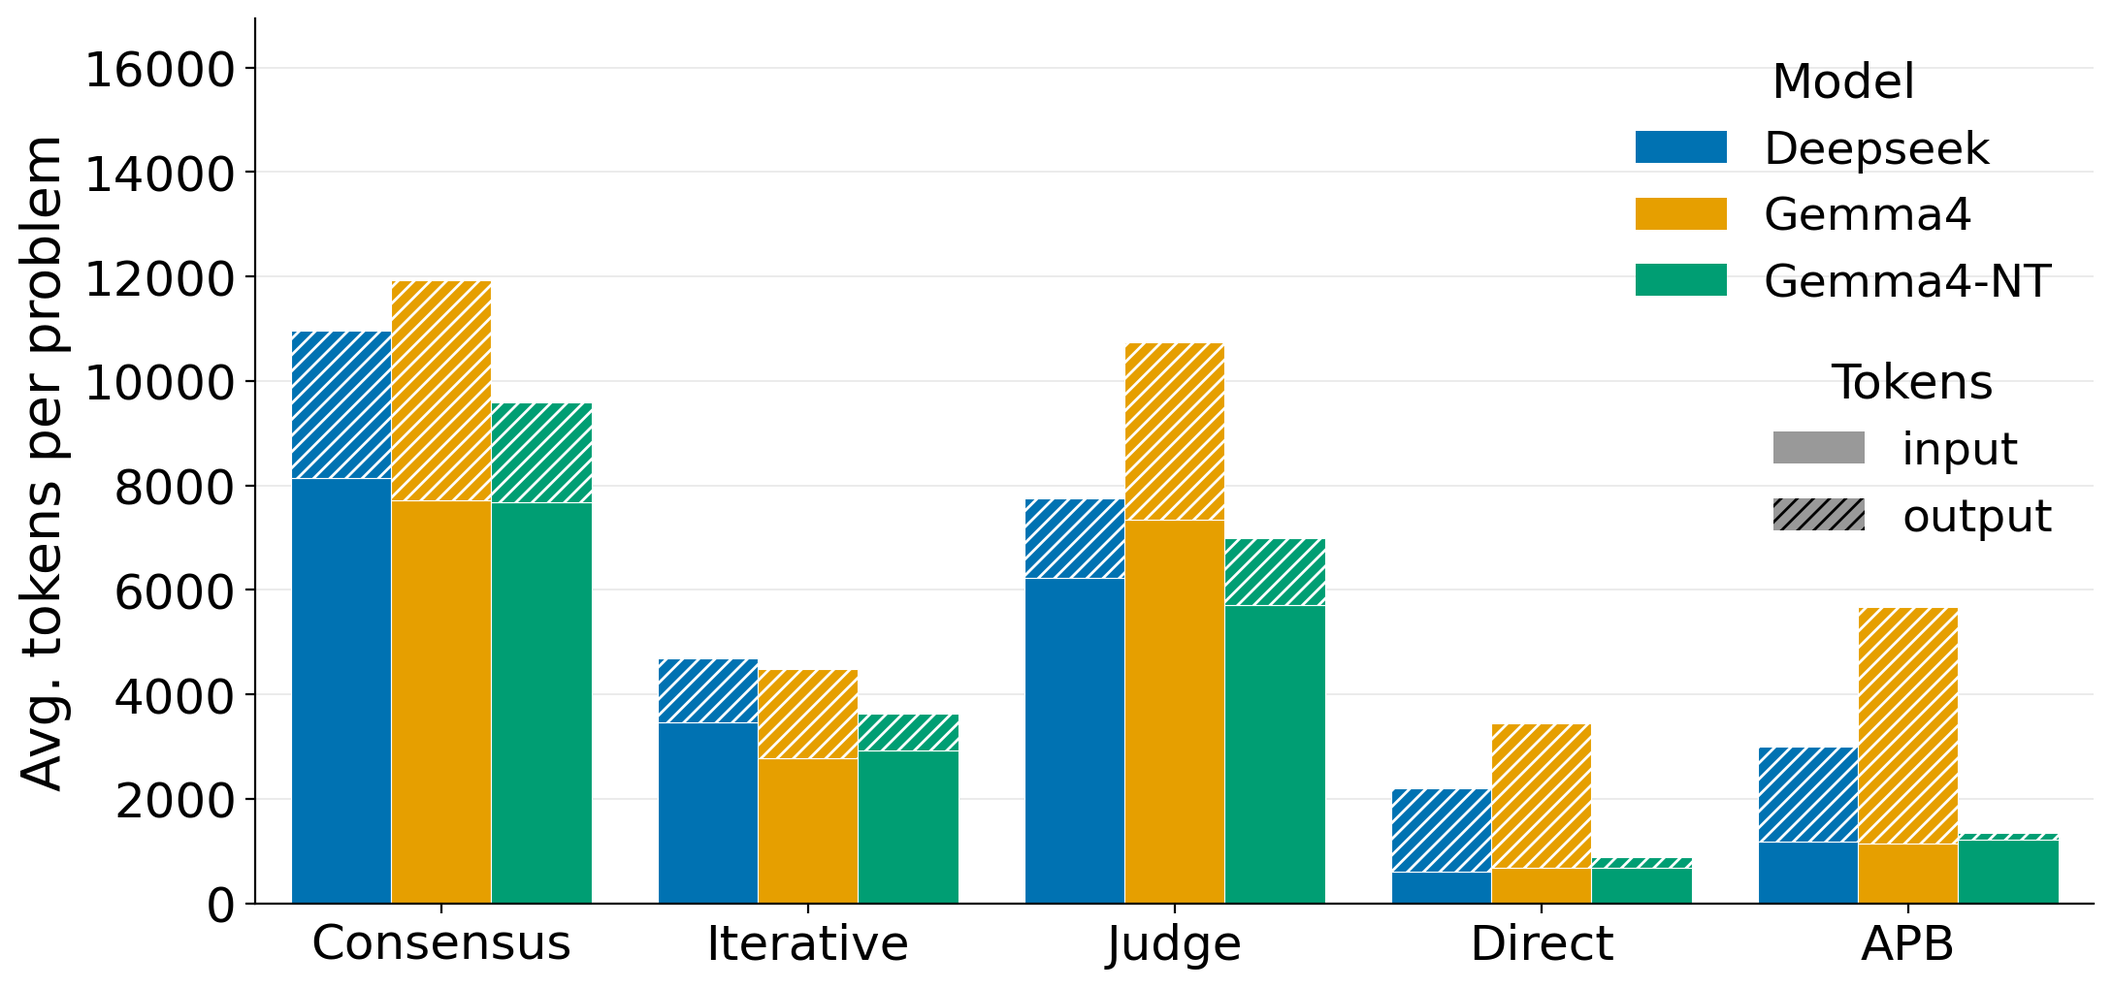
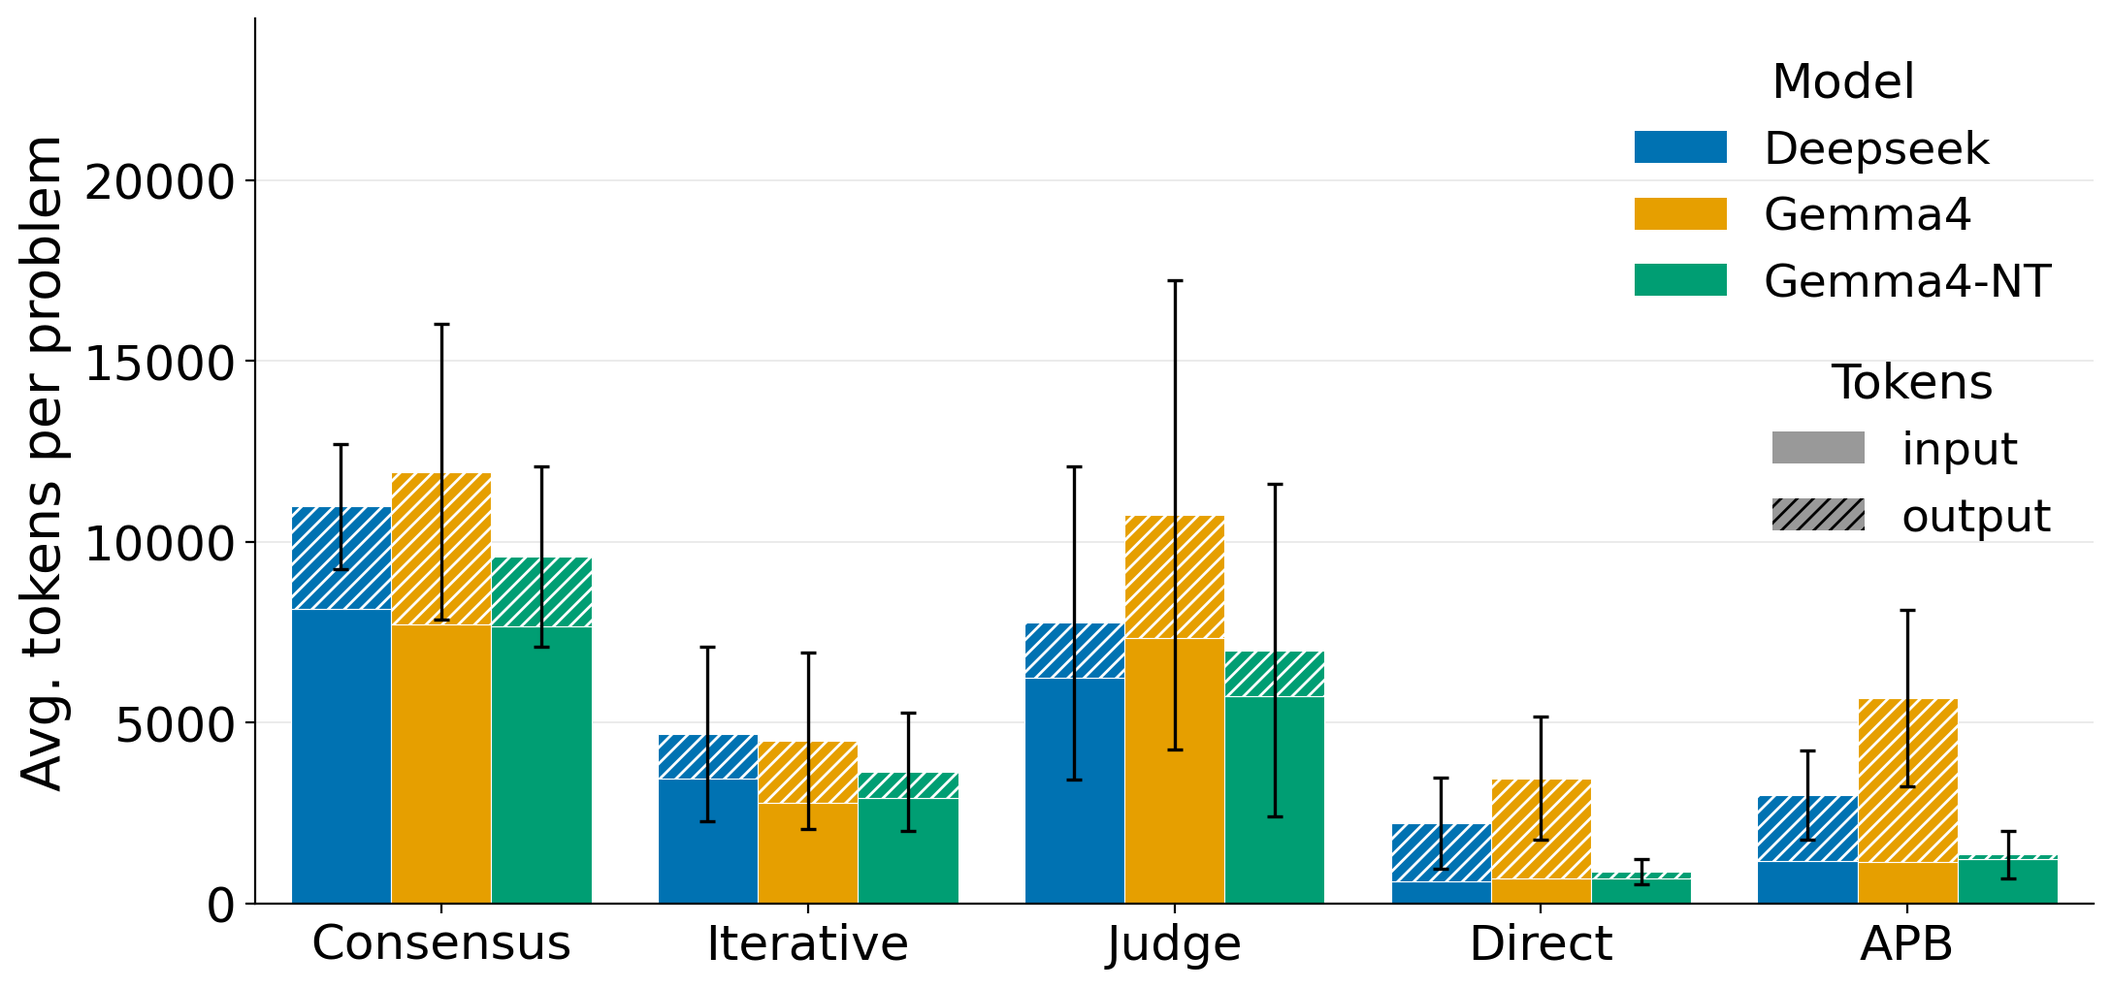
mostly changes in figures, also added appendix info

diff --git a/sections/appendix.tex b/sections/appendix.tex
@@ -1,4 +1,8 @@
-\section{Consensus Sample-Count Ablation}
+\clearpage
+\onecolumn
+\section{Appendices}
+
+\subsection{Consensus Sample-Count Ablation}
 \label{app:consensus}
 
 The main results report consensus at $n{=}3$. Here we ablate the number of samples
@@ -6,8 +10,15 @@ $n\in\{1,3,5\}$, where $n{=}1$ issues a single query with no voting or relaxatio
 therefore isolates the model's single-shot accuracy. Table~\ref{tab:consensus_recovery}
 reports recovery and Table~\ref{tab:consensus_refusal} refusal.
 
+\paragraph{Recovery.} Recovery generally improves with $n$ but with diminishing returns:
+on \textsc{single} and \textsc{stress} the Gemma4 variants are already saturated at
+$n{=}1$, and the largest gains appear on \textsc{bulk} and for \textsc{Deepseek}, whose
+single-shot accuracy is lower. Because token cost scales roughly linearly with $n$
+(about $3.7$k, $11$k, and $18$k tokens per problem at $n{=}1,3,5$), $n{=}3$ is a
+reasonable default and $n{=}5$ rarely justifies its cost.
+
 % ========== CONSENSUS RECOVERY ABLATION ==========
-\begin{table*}[t]
+\begin{table}[ht]
 \centering
 \caption{Consensus recovery (\%) by sample count $n\in\{1,3,5\}$ (rows grouped by model). Recovery generally improves with $n$ but with diminishing returns, while token cost scales roughly linearly with $n$.}
 \label{tab:consensus_recovery}
@@ -33,32 +44,6 @@ G4NT-n3     & \textbf{100.0} $\pm$ 0.0 & 58.0 $\pm$ 50.3 & \textbf{100.0} $\pm$ 
 G4NT-n5     & \textbf{100.0} $\pm$ 0.0 & \textbf{64.0} $\pm$ 47.9 & \textbf{100.0} $\pm$ 0.0 & \textbf{100.0} $\pm$ 0.0 & \textbf{100.0} $\pm$ 0.0 & \textbf{100.0} $\pm$ 0.0 & \textbf{100.0} $\pm$ 0.0 & \textbf{100.0} $\pm$ 0.0 & \textbf{100.0} $\pm$ 0.0 \\
 \bottomrule
 \end{tabular}}
-\end{table*}
-
-\paragraph{Recovery.} Recovery generally improves with $n$ but with diminishing returns:
-on \textsc{single} and \textsc{stress} the Gemma4 variants are already saturated at
-$n{=}1$, and the largest gains appear on \textsc{bulk} and for \textsc{Deepseek}, whose
-single-shot accuracy is lower. Because token cost scales roughly linearly with $n$
-(about $3.7$k, $11$k, and $18$k tokens per problem at $n{=}1,3,5$), $n{=}3$ is a
-reasonable default and $n{=}5$ rarely justifies its cost.
-
-% ========== CONSENSUS REFUSAL ABLATION ==========
-\begin{table}[t]
-\centering
-\caption{Consensus refusal accuracy on \textsc{no\_sub} problems by sample count. Refusal \emph{degrades} as $n$ grows: vote-rank relaxation searches harder for a solvable assignment and, on an unsolvable problem, is more likely to accept a distractor. \textsc{Deepseek} collapses at $n{=}5$.}
-\label{tab:consensus_refusal}
-\footnotesize
-\renewcommand{\arraystretch}{0.9}
-\resizebox{\columnwidth}{!}{%
-\begin{tabular}{l|ccc|c}
-\toprule
-\textbf{Method} & \textbf{DS} & \textbf{G4} & \textbf{G4NT} & \textbf{Avg} \\
-\midrule
-Cons n=1   & \textbf{64.0} $\pm$ 36.3 & \textbf{66.0} $\pm$ 47.2 & \textbf{52.0} $\pm$ 48.3 & \textbf{60.7} $\pm$ 7.6 \\
-Cons n=3   & 60.0 $\pm$ 32.7 & 56.0 $\pm$ 46.0 & 50.0 $\pm$ 46.4 & 55.3 $\pm$ 5.0 \\
-Cons n=5   & 16.0 $\pm$ 18.4 & 62.0 $\pm$ 44.7 & 48.0 $\pm$ 48.3 & 42.0 $\pm$ 23.6 \\
-\bottomrule
-\end{tabular}}
 \end{table}
 
 \paragraph{Refusal.} Refusal moves in the opposite direction --- it \emph{degrades} as
@@ -72,3 +57,136 @@ from $64\%$ and $60\%$ at $n{=}1$ and $n{=}3$; of its $42$ false positives, $28$
 produced by relaxation retyping a distractor such as \texttt{ripe-banana} to
 \texttt{hammer}. The mechanism that aids recovery thus directly undermines refusal, which
 is why the main results adopt the more conservative $n{=}3$.
+
+% ========== CONSENSUS REFUSAL ABLATION ==========
+\begin{table}[ht]
+\centering
+\caption{Consensus refusal accuracy on \textsc{no\_sub} problems by sample count. Refusal \emph{degrades} as $n$ grows: vote-rank relaxation searches harder for a solvable assignment and, on an unsolvable problem, is more likely to accept a distractor. \textsc{Deepseek} collapses at $n{=}5$.}
+\label{tab:consensus_refusal}
+\footnotesize
+\renewcommand{\arraystretch}{0.9}
+\begin{tabular}{l|ccc|c}
+\toprule
+\textbf{Method} & \textbf{DS} & \textbf{G4} & \textbf{G4NT} & \textbf{Avg} \\
+\midrule
+Cons n=1   & \textbf{64.0} $\pm$ 36.3 & \textbf{66.0} $\pm$ 47.2 & \textbf{52.0} $\pm$ 48.3 & \textbf{60.7} $\pm$ 7.6 \\
+Cons n=3   & 60.0 $\pm$ 32.7 & 56.0 $\pm$ 46.0 & 50.0 $\pm$ 46.4 & 55.3 $\pm$ 5.0 \\
+Cons n=5   & 16.0 $\pm$ 18.4 & 62.0 $\pm$ 44.7 & 48.0 $\pm$ 48.3 & 42.0 $\pm$ 23.6 \\
+\bottomrule
+\end{tabular}
+\end{table}
+
+% Generated by examples/export_prompts_tex.py
+\renewcommand{\lstlistingname}{Prompt}
+\subsection{Prompts Used for Experimentation}
+\label{app:prompts}
+All domains use the constrained typing pipeline: the domain actions already enforce specific subtypes, so the LLM only reclassifies problem objects into those existing subtypes. Every mode shares the same system prompt and two-step typing pipeline (Prompt~\ref{lst:typing-prompt}); the judge mode additionally issues the evaluation prompt (Prompt~\ref{lst:judge-prompt}) after each typing query. The consensus modes issue the typing prompt $n$ independent times and aggregate by majority vote. In the iterative and judge modes the \texttt{\{\{JUDGE\_FEEDBACK\}\}} placeholder is populated with planner or judge feedback and the typing prompt is re-issued; it is empty on the first pass. \texttt{\{\{PLANNING\_PROBLEM\}\}} and \texttt{\{\{TYPE\_CLASSIFICATION\}\}} are substituted with the natural-language task encoding and the proposed classification, respectively.
+
+\begin{lstlisting}[caption={Typing Prompt (two-step reasoning pipeline)}, label={lst:typing-prompt}, breaklines=true, numbers=none, basicstyle=\footnotesize\ttfamily, columns=flexible, frame=single, framesep=4pt, literate={"}{{\char34}}{1}]
+[SYSTEM]
+You are an expert in functional object classification for automated planning. Given a planning problem, identify which available objects can plausibly substitute for each specific functional role required by domain actions, based on their physical properties and typical use. If no available object is a plausible match for a required role, leave all objects at their base type. Think concisely -- follow the steps directly and reach your conclusion without revisiting decisions already made.
+------------------------------------------------------------------------
+[HUMAN] Step: analyze_required_type
+# PLANNING PROBLEM
+
+{{PLANNING_PROBLEM}}
+
+# TASK: IDENTIFY REQUIRED FUNCTIONAL ROLES
+
+Domain actions already enforce specific subtypes (visible in DOMAIN ACTIONS). Your job is to identify which available objects can plausibly fill those roles.
+
+## Step 1 -- Goal and direct action
+What is the goal? Which action directly achieves it, and what subtype(s) does it require?
+
+## Step 2 -- Precondition chain
+Check the PRE line of the goal action against the INITIAL STATE.
+IMPORTANT: If INITIAL STATE shows '(No initial facts specified)', then NO predicates hold initially -- every precondition is MISSING and must be produced by a prior action.
+- For each missing precondition: find which action's EFF produces it. What subtype does that action require?
+- Repeat until every prerequisite is satisfied.
+End this step with a numbered list: "Required roles: 1) [type], 2) [type], ..."
+
+## Step 3 -- Object matching
+Work through your required roles list one by one. For EACH role:
+1. State the required physical action in concrete terms (e.g. 'deliver heavy blunt impact', 'fit a narrow slot and apply rotational torque').
+2. For EACH available object, briefly describe its physical form (e.g. heavy/light, rigid/soft, shape). Then ask: could someone physically perform the required action using an object with these properties, even clumsily or unconventionally? Focus entirely on physical form -- ignore what the object is called or intended for.
+Name the best candidate, or state "No match" only if truly no object's physical form could accomplish the action.
+Do not skip any role from Step 2.
+
+## Step 4 -- Distractors
+List objects that cannot plausibly serve any required role.
+
+{{JUDGE_FEEDBACK}}
+
+## Step 5 -- Final match summary
+List ONLY the confirmed matches from Step 3 as:
+  [exact_object_name] -> [required_role_subtype]
+The subtype is the ROLE it fills (e.g. hammer, wrench, screwdriver), NOT the object's original type. One line per match. If no matches, write: No matches.
+
+State your findings for each required role now.
+------------------------------------------------------------------------
+[AI]
+<intermediate response>
+------------------------------------------------------------------------
+[HUMAN] Step: generate_classification
+Based on your analysis, provide the structured classification:
+
+**types**: List only the specific subtype(s) you are actually assigning to at least one object.
+CRITICAL: Use ONLY type names from DOMAIN TYPE HIERARCHY. Do not invent new types.
+If no object plausibly fits any required role, set types to [].
+
+**object_types**: Classify EVERY object using its exact object name as the key.
+Example: {"object_a": "hammer", "object_b": "tool"}
+Do NOT use type names or category headings as keys -- use the exact object name.
+- Objects you identified as plausible matches above -> the required specific subtype
+- ALL other objects -> their original or closest base type from DOMAIN TYPE HIERARCHY
+IMPORTANT: Only assign a specific subtype to an object if your analysis above identified it as a match. If you concluded 'No match' for a role, do not assign any object to that subtype.
+CRITICAL: Every type value must be a name from DOMAIN TYPE HIERARCHY.
+
+Provide your complete structured output now.
+\end{lstlisting}
+
+\begin{lstlisting}[caption={Judge Prompt (self-critique in judge mode)}, label={lst:judge-prompt}, breaklines=true, numbers=none, basicstyle=\footnotesize\ttfamily, columns=flexible, frame=single, framesep=4pt, literate={"}{{\char34}}{1}]
+[SYSTEM]
+You are an expert in functional object classification for automated planning. Given a planning problem, identify which available objects can plausibly substitute for each specific functional role required by domain actions, based on their physical properties and typical use. If no available object is a plausible match for a required role, leave all objects at their base type. Think concisely -- follow the steps directly and reach your conclusion without revisiting decisions already made.
+------------------------------------------------------------------------
+[HUMAN] Step: evaluate_classification
+# PLANNING PROBLEM
+
+{{PLANNING_PROBLEM}}
+
+# PROPOSED TYPE CLASSIFICATION
+
+{{TYPE_CLASSIFICATION}}
+
+# YOUR TASK: EVALUATE THIS CLASSIFICATION
+
+You are an expert judge evaluating whether this type classification is good.
+
+## Evaluation Criteria
+
+1. **Type Validity**: Are all assigned types from DOMAIN TYPE HIERARCHY?
+   - Check every value in object_types and every entry in types.
+   - Flag any type name that does not appear in DOMAIN TYPE HIERARCHY as invalid.
+   - Invalid types will be discarded by the planner -- this may break solvability.
+
+2. **Goal Alignment**: Do the types match what the goal needs?
+   - Are goal-relevant objects reclassified to the correct specific subtype?
+   - Are distractor objects left at their original or closest base type?
+
+3. **Solvability**: Will this typing let the planner solve the problem?
+   - Is the key object reclassified to the exact subtype the relevant action requires?
+   - Can the goal still be achieved with these type assignments?
+
+## Your Decision
+
+Provide:
+- **is_approved**: true if good, false if needs refinement
+- **solvability_assessment**: 'likely_solvable', 'uncertain', or 'likely_unsolvable'
+- **feedback**: Detailed feedback on issues (if rejecting) or strengths (if approving)
+- **confidence**: 0.0 to 1.0 (how confident are you?)
+
+If you reject, explain specifically what needs to change.
+If you approve, explain why the classification is good.
+
+Provide your structured judgment now.
+\end{lstlisting}

diff --git a/sections/pipeline_figure.tex b/sections/pipeline_figure.tex
@@ -8,7 +8,7 @@
   (:requirements :strips :typing)
   (:types robot graspable - object
           eraser - graspable
-          whiteboard - object)
+          blackboard - object)
   { ... })
 \end{lstlisting}\end{lrbox}%
   \begin{lrbox}{\pddlProbU}\begin{lstlisting}[style=pddl]
@@ -17,10 +17,10 @@
   (:objects
     stretch      - object
     cloth_0      - object
-    whiteboard_0 - object
+    blackboard_0 - object
     marker_0     - object
     mug_0        - object)
-  (:goal (whiteboard_clean whiteboard_0)))
+  (:goal (blackboard_clean blackboard_0)))
 \end{lstlisting}\end{lrbox}%
   \begin{lrbox}{\pddlProbT}\begin{lstlisting}[style=pddltyped]
 (define (problem stretch_cleanup_0)
@@ -28,10 +28,10 @@
   (:objects
     stretch      - robot
     cloth_0      - graspable
-    whiteboard_0 - whiteboard
+    blackboard_0 - blackboard
     marker_0     - graspable
     mug_0        - graspable)
-  (:goal (whiteboard_clean whiteboard_0)))
+  (:goal (blackboard_clean blackboard_0)))
 \end{lstlisting}\end{lrbox}%
   % equalize all panel widths to the widest (the problem panels)
   \setlength{\panelw}{\wd\pddlProbU}%
@@ -40,12 +40,14 @@
   \begin{tikzpicture}[
       stage/.style={draw=stagerule,rounded corners=4pt,fill=stagebg,inner sep=5pt},
       bigbox/.style={draw=stagerule,rounded corners=3pt,fill=stagebg,
-                     align=center,font=\bfseries,inner sep=5pt,minimum width=3.2cm},
+                     align=center,font=\bfseries,inner sep=5pt,minimum width=4.5cm},
       flow/.style={-{Stealth[length=2.6mm,width=2.6mm]},line width=1pt,accent},
     ]
     % left-column anchor: physical task at origin
+    % Double-blind: uses the logo-redacted mug. For the de-anonymized/camera-ready
+    % version, swap to figures/robot_photo_annotated_logo.png (mug logo visible).
     \node[bigbox,anchor=north] (photo) at (0,0)
-        {\includegraphics[width=3cm]{figures/robot_photo.png}\\[1pt]Physical Task};
+        {\includegraphics[width=4.5cm]{figures/robot_photo_annotated.png}\\[1pt]Scene};
 
     % right column: the two PDDL stages, placed RELATIVE to the photo
     % (fixed gap) so font-metric differences never cause overlap
@@ -81,6 +83,6 @@
     \draw[flow] (planner.west) -- (planner.west -| FL)
           -- (photo.west -| FL) -- (photo.west);
   \end{tikzpicture}}
-  \caption{\small{The CAST typing pipeline. A physical task is encoded at runtime into a typed domain and a problem whose objects carry only an overly-general base type, leaving the goal unreachable (the typing gap). The LLM reassigns each object a functional type already defined in the domain (highlighted), and the repaired problem is handed to a symbolic planner.}}
+  \caption{\small{The CAST typing pipeline. A scene is encoded at runtime into a typed domain and a problem whose objects carry only an overly-general base type, leaving the goal unreachable (the typing gap). The LLM reassigns each object a functional type already defined in the domain (highlighted), and the repaired problem is handed to a symbolic planner.}}
     \label{fig:robot_example}
 \end{figure}

diff --git a/sections/robot_deployment.tex b/sections/robot_deployment.tex
@@ -2,6 +2,6 @@
 
 The experiments above evaluate the typing step in isolation, on hand-authored problems. To show that this step composes into a working system rather than depending on curated PDDL, we deploy the full pipeline on a physical robot, where the typed problem is constructed end-to-end from raw perception rather than provided a priori.
 
-Figure~\ref{fig:robot_example} shows the real robot domain, deployed on a Stretch mobile manipulator~\cite{stretch}. The domain includes actions such as \texttt{pickup} and \texttt{clean\_whiteboard}, each with typed preconditions that constrain which objects they can be applied to. At runtime the scene is perceived using Grounding DINO~\cite{gdino} for open-vocabulary object detection and SAM 2~\cite{sam} for segmentation, yielding a set of detected objects with semantic class names and estimated 3D positions. The system knows, for example, that a \texttt{cloth} is present, but has no knowledge of the affordances required by the planner. Accordingly, all detected objects are assigned the abstract base type \texttt{graspable} in the generated PDDL problem, and the LLM must assign appropriate types before planning can proceed. This is precisely the typing gap our method resolves, now arising organically from perception: the vision stack reports \emph{what} is in the scene, but not \emph{what role} each object can play.
+Figure~\ref{fig:robot_example} shows the real robot domain, deployed on a Stretch mobile manipulator~\cite{stretch}. The domain includes actions such as \texttt{pickup} and \texttt{clean\_blackboard}, each with typed preconditions that constrain which objects they can be applied to. At runtime the scene is perceived using Grounding DINO~\cite{gdino} for open-vocabulary object detection and SAM 2~\cite{sam} for segmentation, yielding a set of detected objects with semantic class names and estimated 3D positions. The system knows, for example, that a \texttt{cloth} is present, but has no knowledge of the affordances required by the planner. Accordingly, all detected objects are assigned the abstract base type \texttt{graspable} in the generated PDDL problem, and the LLM must assign appropriate types before planning can proceed. This is precisely the typing gap our method resolves, now arising organically from perception: the vision stack reports \emph{what} is in the scene, but not \emph{what role} each object can play.
 
 The accompanying video shows the running example of Figure~\ref{fig:robot_example} executed on hardware: with no \texttt{eraser} present, the system types the \texttt{cloth} as a functional substitute and the robot completes the whiteboard-cleaning goal. We report this as an integration demonstration rather than a quantitative benchmark: typing correctness is what the controlled experiments measure, whereas physical execution also exercises orthogonal subsystems (grasping, navigation, depth estimation) whose failures are independent of it. The robot thus establishes real-world applicability; the benchmark establishes correctness.

diff --git a/sections/conclusion.tex b/sections/conclusion.tex
@@ -1,6 +1,6 @@
 \section{Conclusion}
 We have presented an approach for augmenting an off-the-shelf symbolic planner with an LLM to enable creative problem solving. Using three different variations, we have demonstrated that small, single GPU open-weight LLMs can successfully make valid typing substitutions that render unsolvable problems, solvable. We compared our implementation to a pre-existing LLM based PDDL planner, and demonstrated significant performance increases across a variety of problem categories and semantic encodings.
 
-This work is not without limitations. Namely, the presented approach offers no formal guarantees that substitutions made are valid. As an example, a `pick-up` action may only apply to certain objects, like those that are rigid, and may not be transferable to others, like deformable ones. Additionally, We rely on the assumption that the action name is semantically rich enough to describe its use. Substituting `pickup-object` with a less rich encoding like `action1` provides no semantic information on the affordances of the action and which objects it might apply to.
+This work is not without limitations. Namely, the presented approach offers no formal guarantees that substitutions made are valid. As an example, a \texttt{pick-up} action may only apply to certain objects, like those that are rigid, and may not be transferable to others, like deformable ones. Additionally, We rely on the assumption that the action name is semantically rich enough to describe its use. Substituting \texttt{pickup-object} with a less rich encoding like \texttt{action1} provides no semantic information on the affordances of the action and which objects it might apply to.
 
 Future work might consider using a multiplexer of some sort to dynamically balance the trade offs of each of the proposed approaches at runtime. For example, in a situation where a substitution is likely, it would make sense to use the interactive method. Conversely, in a mission critical setting where mistakes can be costly, the trade off in refusal accuracy is not acceptable. Additional work might also consider ways to encode affordances along side of actions so that the LLM has a stronger grasp on what objects each action can be performed on.

diff --git a/sections/results.tex b/sections/results.tex
@@ -80,7 +80,7 @@ This trade-off interacts with model choice: thinking-enabled models (\textsc{DS}
 \begin{figure}
   \centering
   \includegraphics[width=0.45\textwidth]{figures/token_usage.png}
-  \caption{\small{Average LLM token usage per problem (input: solid, output: hatched) across methods and models.}}
+  \caption{\small{Average LLM token usage per problem (input: solid, output: hatched) across methods and models. Error bars show $\pm 1$ standard deviation of the total tokens per problem.}}
     \label{fig:token_usage}
 \end{figure}
 

diff --git a/main.tex b/main.tex
@@ -153,7 +153,7 @@
 }
 % typed-problem variant: highlight the functional types the LLM assigns
 \lstdefinestyle{pddltyped}{style=pddl,
-  emph={robot,graspable,whiteboard},
+  emph={robot,graspable,blackboard},
   emphstyle={\color{ptype}\bfseries},
 }
 
